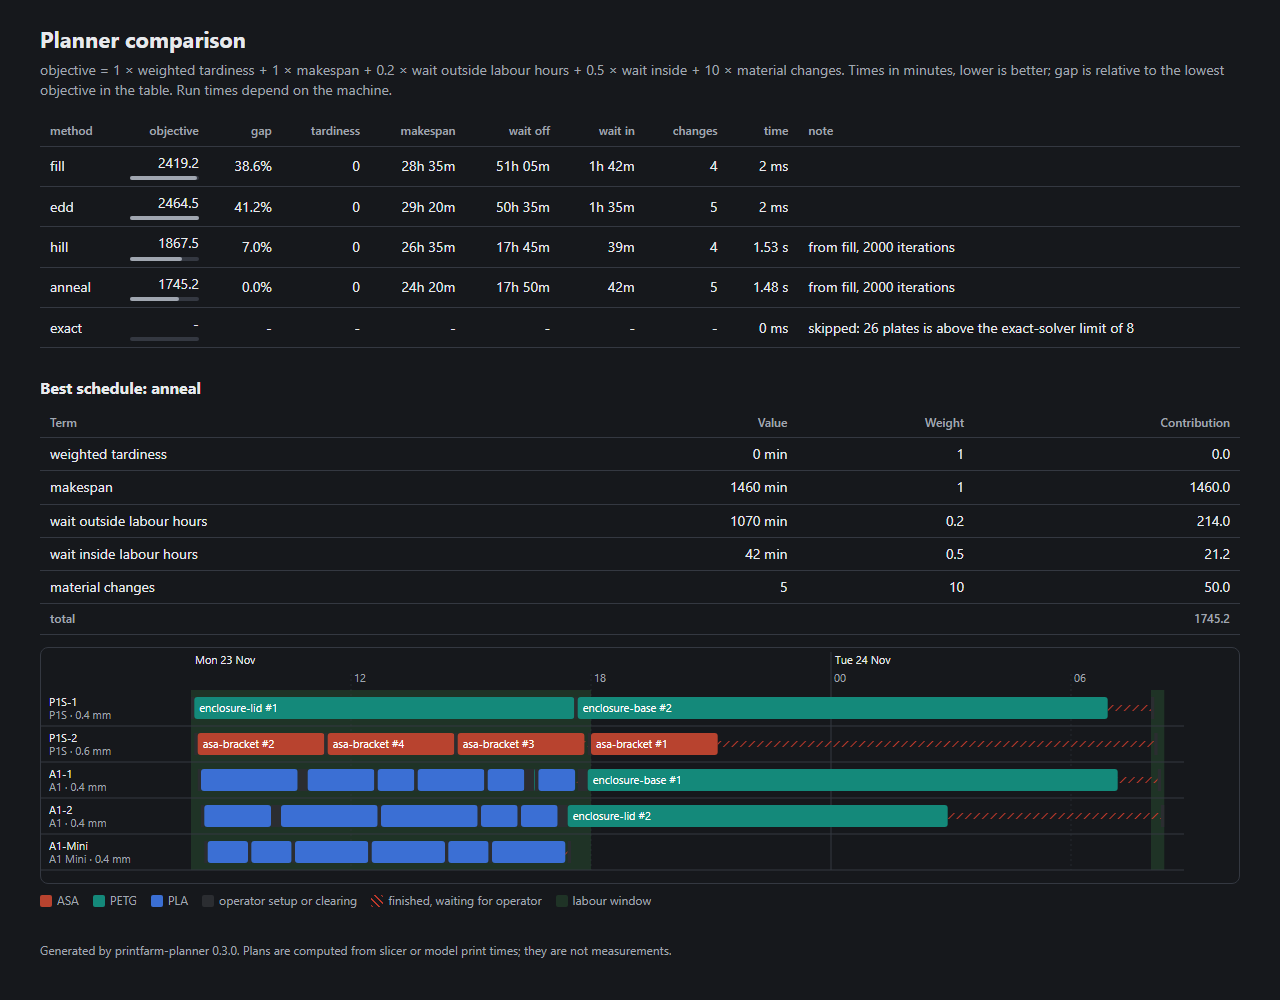
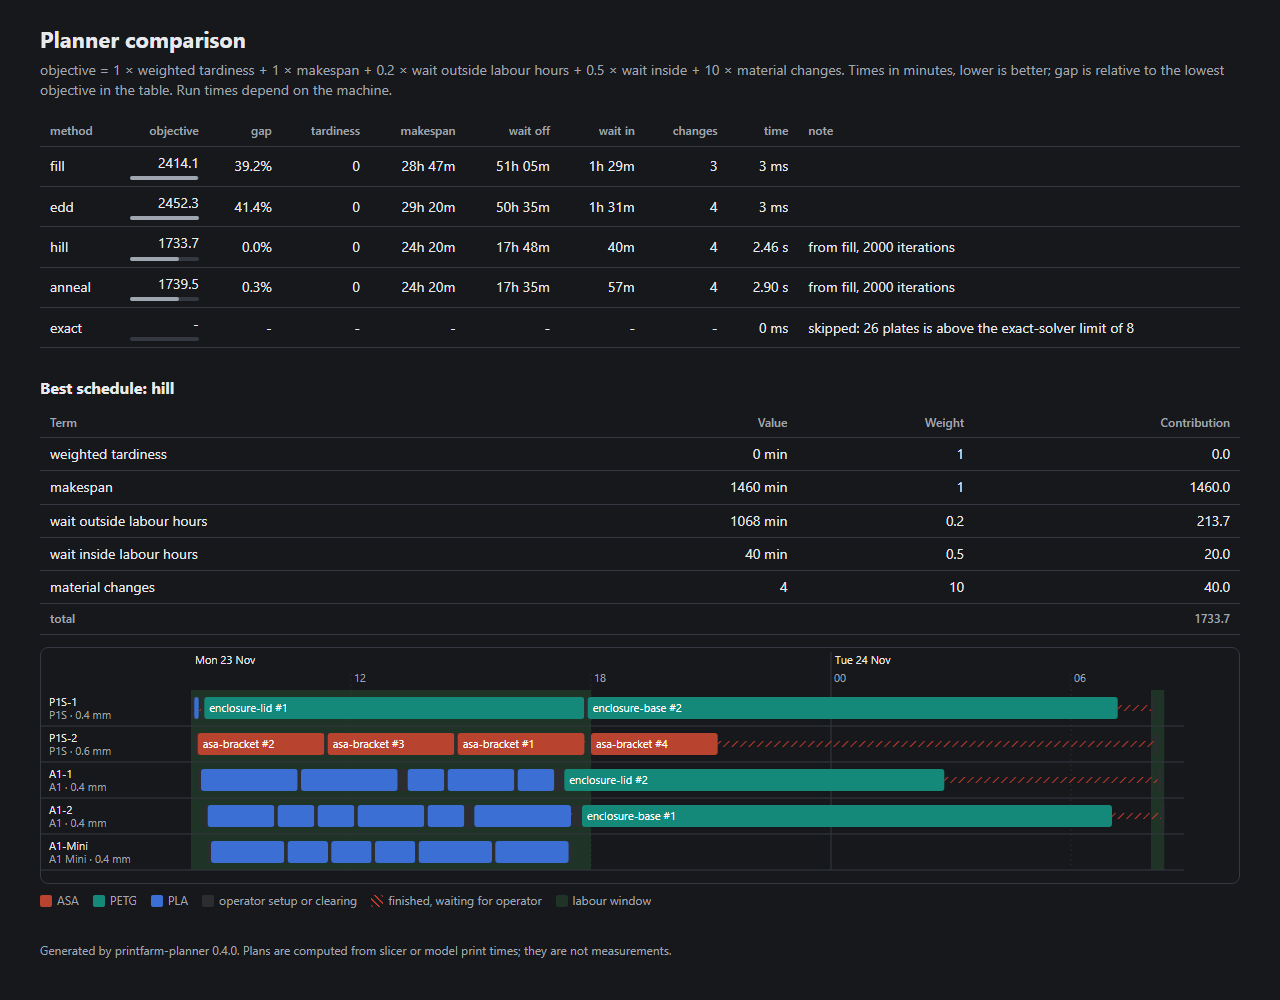
Release 0.4.0 with re-measured example results

diff --git a/src/printfarm_planner/__init__.py b/src/printfarm_planner/__init__.py
@@ -2,6 +2,6 @@
 
 from __future__ import annotations
 
-__version__ = "0.3.0"
+__version__ = "0.4.0"
 
 __all__ = ["__version__"]

diff --git a/README.md b/README.md
@@ -80,34 +80,39 @@ Output (first part; the full text also lists every plate and job):
 ```text
 Production plan (strategy: fill)
 
-  Start Mon 23 Nov 08:00   Finish Tue 24 Nov 12:35   Makespan 28h 35m
-  26 plates, 83h 53m printing, fleet utilisation 58.7%
-  Operator: 31 tasks, 3h 15m, 4 material changes
-  Finished plates waiting: 51h 05m outside labour windows, 1h 42m inside
-  Of that, final plates waiting to be cleared: 13m
+  Start Mon 23 Nov 08:00   Finish Tue 24 Nov 12:46   Makespan 28h 47m
+  26 plates, 83h 58m printing, fleet utilisation 58.4%
+  Operator: 31 tasks, 3h 05m, 3 material changes
+  Finished plates waiting: 51h 05m outside labour windows, 1h 29m inside
+  Of that, final plates waiting to be cleared: 0m
   Filament: 1822.2 g
 
 Objective (lower is better; minutes, weighted)
   term                          value  weight  contribution
   weighted tardiness            0 min       1           0.0
-  makespan                   1715 min       1        1715.0
+  makespan                   1727 min       1        1726.5
   wait outside labour hours  3065 min     0.2         613.0
-  wait inside labour hours    102 min     0.5          51.2
-  material changes                  4      10          40.0
-  total                                              2419.2
+  wait inside labour hours     89 min     0.5          44.5
+  material changes                  3      10          30.0
+  total                                              2414.1
 
 Printers (wait off / wait in include the final plate's wait)
   printer  model    plates  printing  setup  wait off  wait in  final wait  cleared            util
-  P1S-1    P1S           5   27h 00m    25m    1h 05m       0m          0m  Tue 24 Nov 12:35  94.5%
-  P1S-2    P1S           4   12h 40m    20m   14h 00m      15m          0m  Tue 24 Nov 11:25  44.3%
-  A1-1     A1            5   15h 16m    55m   11h 35m      14m          4m  Tue 24 Nov 12:15  53.4%
-  A1-2     A1            4   16h 45m    30m   10h 25m      20m          5m  Tue 24 Nov 12:20  58.6%
-  A1-Mini  A1 Mini       8   12h 12m    40m   14h 00m      54m          4m  Tue 24 Nov 12:10  42.7%
+  P1S-1    P1S           6   27h 07m    30m    1h 05m       0m          0m  Tue 24 Nov 12:46  94.2%
+  P1S-2    P1S           4   12h 40m    20m   14h 00m      15m          0m  Tue 24 Nov 11:25  44.0%
+  A1-1     A1            4   15h 15m    40m   11h 35m      10m          0m  Tue 24 Nov 11:55  53.0%
+  A1-2     A1            4   16h 45m    30m   10h 25m      15m          0m  Tue 24 Nov 12:15  58.2%
+  A1-Mini  A1 Mini       8   12h 12m    40m   14h 00m      49m          0m  Tue 24 Nov 12:05  42.4%
 ```
 
 The 31 operator tasks are 26 plate starts and 5 clearings of final plates. The same input with
-`--strategy edd` gave a 29h 20m makespan, 5 material changes and 50h 35m of off-hours waiting,
-11h 05m of it final plates left overnight, for an objective of 2464.5 against 2419.2 for `fill`.
+`--strategy edd` gave a 29h 20m makespan, 4 material changes and 50h 35m of off-hours waiting,
+11h 01m of it final plates left overnight, for an objective of 2452.3 against 2414.1 for `fill`.
+
+These figures changed in v0.4.0 for two reasons. `calibration-cube` now comes from a gcode-insight
+0.2.0 analysis that says it was sliced for a P1S, so it can only go to P1S-1. And a job whose spool
+has no colour label (or whose slicer colour `#161616` is the loaded `PETG:black`) no longer counts
+a material change against a labelled spool of the same type.
 Neither strategy is better in general: both are greedy heuristics, so try both on your own
 order.
 
@@ -123,28 +128,29 @@ Planner comparison (26 plates)
   times in minutes; gap is relative to the lowest objective in this table
 
   method  objective    gap  tardiness  makespan  wait off  wait in  changes    time  note
-  fill       2419.2  38.6%          0   28h 35m   51h 05m   1h 42m        4    2 ms
-  edd        2464.5  41.2%          0   29h 20m   50h 35m   1h 35m        5    2 ms
-  hill       1867.5   7.0%          0   26h 35m   17h 45m      39m        4  1.39 s  from fill, 2000 iterations
-  anneal     1745.2   0.0%          0   24h 20m   17h 50m      42m        5  1.43 s  from fill, 2000 iterations
+  fill       2414.1  39.2%          0   28h 47m   51h 05m   1h 29m        3    5 ms
+  edd        2452.3  41.4%          0   29h 20m   50h 35m   1h 31m        4    4 ms
+  hill       1733.7   0.0%          0   24h 20m   17h 48m      40m        4  2.37 s  from fill, 2000 iterations
+  anneal     1739.5   0.3%          0   24h 20m   17h 35m      57m        4  2.83 s  from fill, 2000 iterations
   exact           -      -          -         -         -        -        -    0 ms  skipped: 26 plates is above the exact-solver limit of 8
 ```
 
 What this shows, and what it does not:
 
-- The local search lowers the objective by 23% (hill climbing) and 28% (annealing) against the
-  better greedy plan, mostly by cutting overnight waiting from about 51 hours to about 18 hours.
-  The improved plans still let long plates print overnight, but time them to finish closer to
-  Tuesday 08:00, when they are cleared. Most of their remaining wait is final plates: 13h 25m
-  for hill climbing and 18h 24m for annealing, 10h 55m of it on P1S-2, the only printer that
-  can run the ASA job.
+- The local search lowers the objective by 28% (hill climbing, 1733.7) and 28% (annealing,
+  1739.5) against the better greedy plan, mostly by cutting overnight waiting from about 51 hours
+  to about 18 hours. The improved plans still let long plates print overnight, but time them to
+  finish closer to Tuesday 08:00, when they are cleared. Most of their remaining wait is final
+  plates: 18h 18m for hill climbing and 18h 08m for annealing, 10h 55m of it on P1S-2, the only
+  printer that can run the ASA job.
 - **v0.2.0 overstated this improvement.** Its objective did not count the final plate's wait
   and did not schedule clearing it, so it showed hill climbing at 1332.5 with 0m of off-hours
   waiting, 42.4% below the better greedy plan (then `edd`). Re-timed and scored with clearing,
   that same v0.2.0 plan has 32h 52m of off-hours waiting and an objective of 1907.0. The
-  improvement is still there, but at 23-28% it is smaller than v0.2.0 reported.
-- The result depends on the seed. With seeds 0 to 4, hill climbing ended between 1749.2 and
-  1871.4, and annealing between 1745.2 and 1956.2. Annealing was not consistently better.
+  improvement is still there, but it is smaller than v0.2.0 reported (23-28% on the v0.3.0
+  example).
+- The result depends on the seed. With seeds 0 to 4, hill climbing ended between 1719.2 and
+  1860.2, and annealing between 1733.7 and 1866.7. Annealing was not consistently better.
 - With 26 plates the exact solver is skipped, so there is no proof of how far these plans are
   from the optimum. Run times are from the development machine.
 
@@ -199,7 +205,7 @@ enclosure-base    P1S-1, A1-1, A1-2
 asa-bracket       P1S-2
 logo-badge        P1S-1, A1-1, A1-2
 mini-hinges       P1S-1, A1-1, A1-2, A1-Mini
-calibration-cube  P1S-1, A1-1, A1-2, A1-Mini
+calibration-cube  P1S-1
 ```
 
 When a job has no capable printer, `check` prints each printer's reasons, and `plan` lists the
@@ -208,19 +214,35 @@ job under "Unscheduled" and exits with status 1.
 ### Using gcode-insight output
 
 ```console
-gcode-insight analyze bracket.gcode --json > bracket.json
+gcode-insight analyze bracket.gcode --json --out bracket.json
 printfarm-planner plan --fleet fleet.json bracket.json --copies 6 --start 2026-11-23T08:00
 ```
+
+`--out` needs gcode-insight 0.2.0 or later. Shell redirection (`--json > bracket.json`) also works,
+including in Windows PowerShell 5.1, which writes UTF-16 or UTF-8 with a byte-order mark: the
+planner reads JSON, CSV and fleet files in UTF-8 with or without a BOM, and UTF-16 with a BOM.
 
 For each analysis, the job uses:
 
 | Field | Taken from |
 |---|---|
 | print time | the slicer's total estimate in the file. If there is none, gcode-insight's model estimate plus `--prep-min` (the model excludes heating, homing and levelling). |
-| materials | each tool that extruded, from gcode-insight's material, falling back to the slicer's filament type, then `--material` |
+| spools | each tool that extruded: gcode-insight's material, falling back to the slicer's filament type, then `--material`; plus the slicer's filament colour when the file has one (gcode-insight 0.2.0+), for example `PLA:#161616` |
+| models | the printer model the file was sliced for (gcode-insight 0.2.0+), with a `Bambu Lab ` prefix dropped: `Bambu Lab P1S` -> `P1S`. The job then runs only on printers of that model. A file sliced for a model your fleet does not have (`Voron 2.4 350`) has no printer; set the CSV `models` column to override. |
 | nozzle | slicer metadata, if present |
 | size | extent of all moves (X/Y span, max Z). This includes purge lines, so it can overstate the part. |
 | mass | gcode-insight's mass estimate |
+
+Output of gcode-insight 0.1.0 (no `schema_version`) still loads: its spools have no colour and the
+job may run on any compatible model.
+
+How spools are matched against what a printer has loaded: the material type must be equal. If
+either side has no colour label (`PLA`), any spool of that type serves. Otherwise the labels must
+name the same colour, where a `#RRGGBB` code counts as the nearest of a small table of reference
+colours (black, white, grey, silver, red, maroon, orange, yellow, gold, green, olive, cyan, blue,
+navy, purple, magenta, pink, brown, beige). So the slicer's `#161616` matches a spool labelled
+`black`, and `#FFFFFF` matches `white`. Other labels (`galaxy`) must match as written, ignoring
+case. The hex mapping is a heuristic: two different dark reds can both map to `maroon`.
 
 ## Input formats
 
@@ -276,10 +298,10 @@ bracket,6,,,,,,,0,,analyses/bracket.json
 | `print_time` | per plate: minutes (`90`), `H:MM` or `1h30m`. Required unless `gcode_json` is given. |
 | `material` | spools joined with `+`. Each spool is a type, optionally with `:label` (colour). The type is checked against the printer, and the full name decides whether a spool swap is needed. |
 | `nozzle_mm`, `size_mm` (`XxYxZ`), `mass_g` | optional; used for checks and totals |
-| `due` | hours after the plan start, or an ISO date-time |
+| `due` | hours after the plan start, or an ISO date-time. A date-time with a UTC offset (`2026-11-24T14:00+01:00`) is converted to local time (or to `--start`'s offset, if it has one). |
 | `priority` | integer, higher is scheduled first (default 0) |
-| `models` | printer models the file was sliced for, joined with `+` (empty means any) |
-| `gcode_json` | path to a gcode-insight analysis, relative to the CSV. Values in the row override it. |
+| `models` | printer models the file was sliced for, joined with `+`. Empty means the model from `gcode_json`, or any model when there is none. |
+| `gcode_json` | path to a gcode-insight analysis, relative to the CSV. Values in the row override it. When an overriding value is clearly different (print time or mass more than 10% apart, another material or colour, another nozzle, other models), the job gets a `warning:` note and the warning is printed to stderr. Leave a column empty to use the analysis. |
 
 Lines starting with `#` are ignored.
 
@@ -419,12 +441,14 @@ pip install -e ".[dev]"
 ruff check . && ruff format --check . && mypy && pytest --cov
 ```
 
-The 284 tests include scheduler scenarios with timelines worked out by hand (for example, a
+The 326 tests include scheduler scenarios with timelines worked out by hand (for example, a
 12-hour plate started Monday 08:05 ends at 20:05, its successor is set up at Tuesday 08:00, and
 the final plate is cleared Wednesday 08:00). They also cover calendar edge cases (weekends,
 shifts past midnight, windows too short for a task), operator contention, including two final
-plates competing for one operator, and loading the real JSON output of gcode-insight. CI runs
-on Ubuntu and Windows with Python 3.10 and 3.13.
+plates competing for one operator, and loading the real JSON output of gcode-insight 0.1.0 and
+0.2.0. CI runs on Ubuntu and Windows with Python 3.10 and 3.13. A separate `interop` job installs
+gcode-insight v0.2.0, analyses the G-code fixtures with it and checks that the live output imports
+the same as the committed JSON, including a PowerShell 5.1 `>` redirect on Windows.
 
 For the planners added in v0.2.0, the tests check objective terms against hand-derived values,
 check that the local search never returns a worse plan than its start and that every plan it
@@ -453,7 +477,8 @@ by `tests/gap_study.py` (`python tests/gap_study.py` prints them).
   CSV export lists plates only; the clearing tasks are in the text, JSON and HTML output.
 - Loading AMS spools is assumed to happen within `material_change_min`.
 - The local search with a `--time-limit` is not repeatable across machines. The default
-  2000-iteration budget took about 1.4 s for the 26-plate example on the development machine.
+  2000-iteration budget took 2.4 to 3.3 s for the 26-plate example on the development machine
+  (it varies with machine load).
 - Material compatibility is by type only. TPU in an AMS, hardened nozzles for CF filaments and
   similar rules are left to your own `materials` lists.
 - Wall-clock times are naive local time, so daylight-saving changes are not modelled.

diff --git a/CHANGELOG.md b/CHANGELOG.md
@@ -4,6 +4,43 @@ All notable changes to this project are documented here. The format follows
 [Keep a Changelog](https://keepachangelog.com/en/1.1.0/) and the project uses
 [Semantic Versioning](https://semver.org/spec/v2.0.0.html).
 
+## [0.4.0] - 2026-11-24
+
+This release changes planning results for files analysed by gcode-insight and for spools with
+colour labels; the README example figures were re-measured.
+
+### Fixed
+
+- **False material changes.** A job spool without a colour (`PLA`, which is all gcode-insight
+  0.1.0 could produce) never matched a loaded, labelled spool (`PLA:black`), so every such job was
+  charged a material change. A spool without a label now matches any loaded spool of its type, and
+  a slicer colour code matches a named spool of the nearest reference colour (`#161616` is
+  `black`).
+- **Colour was lost on import.** With gcode-insight 0.2.0 output each spool now carries the
+  filament colour (`PLA:#FFFFFF`), so a two-colour PLA job needs two PLA spools and colour swaps
+  are counted.
+- **Files could run on the wrong printer model.** The model a file was sliced for
+  (`printer_model`, gcode-insight 0.2.0+) was ignored; a file sliced for a P1S was offered to the
+  A1s, and one sliced for a Voron to a P1S. The job is now limited to that model (`Bambu Lab P1S`
+  -> `P1S`); the CSV `models` column overrides it, with a warning.
+- **The README's PowerShell pipeline failed.** JSON, CSV and fleet files written by Windows
+  PowerShell (UTF-8 with a BOM, or UTF-16) were rejected with `Unexpected UTF-8 BOM`. They are now
+  read; the README uses gcode-insight's new `--out` instead of `>`.
+- **A `due` with a UTC offset crashed** with a `TypeError` traceback and exit 1 (the code for
+  "unschedulable"). It is now converted to the plan's time zone.
+- **CSV values silently overrode the analysis.** A CSV value that is clearly different from the
+  `gcode_json` analysis (time or mass more than 10% apart, another material or colour, nozzle or
+  models) still wins, but now adds a `warning:` note and prints a warning to stderr.
+
+### Added
+
+- `gcode-insight` JSON `schema_version` handling: 1 (0.1.0, no field) and 2 (0.2.0) load; a newer
+  version loads with a note.
+- CI `interop` job that installs gcode-insight v0.2.0 and checks that its live output imports like
+  the committed fixtures, including a PowerShell 5.1 redirect on Windows.
+- Test fixtures from gcode-insight 0.2.0 (with the G-code they come from); the 0.1.0 output is
+  kept in `tests/fixtures/gcode-insight-0.1.0/`.
+
 ## [0.3.0] - 2026-11-19
 
 This release changes planning results. **The wait figures of v0.2.0 understated the wait of
@@ -122,6 +159,7 @@ First release.
 - Not yet used on a real print farm. Example jobs are invented, and print times come from slicer
   or model estimates. See the README section "Known limitations".
 
+[0.4.0]: https://github.com/projectbin07-stack/printfarm-planner/releases/tag/v0.4.0
 [0.3.0]: https://github.com/projectbin07-stack/printfarm-planner/releases/tag/v0.3.0
 [0.2.0]: https://github.com/projectbin07-stack/printfarm-planner/releases/tag/v0.2.0
 [0.1.0]: https://github.com/projectbin07-stack/printfarm-planner/releases/tag/v0.1.0
